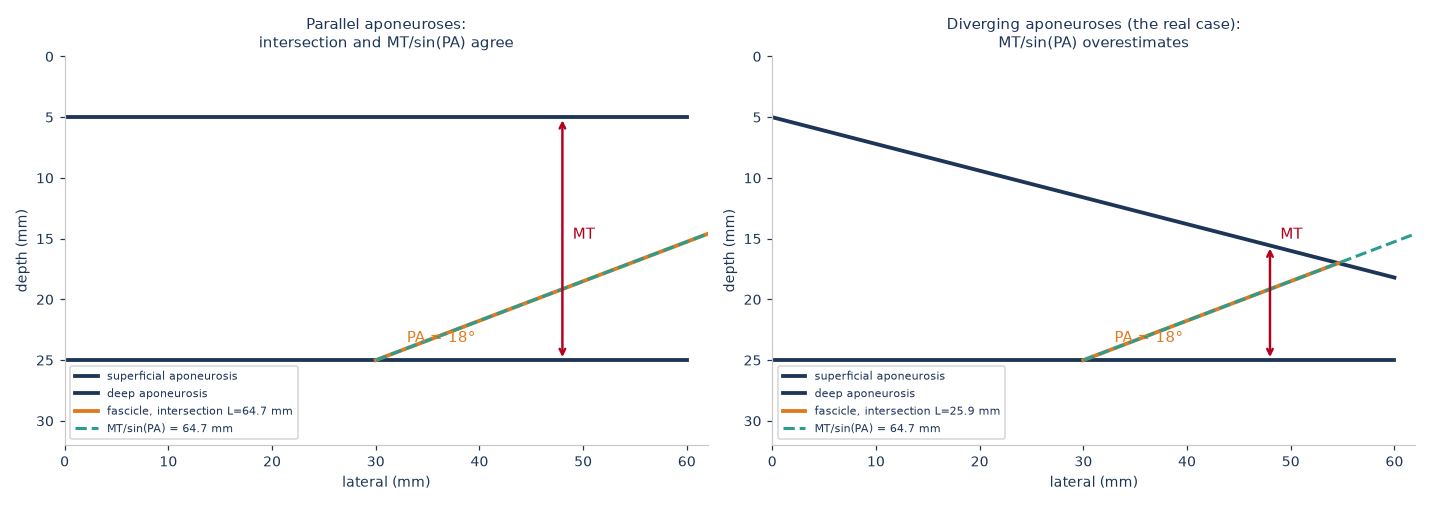
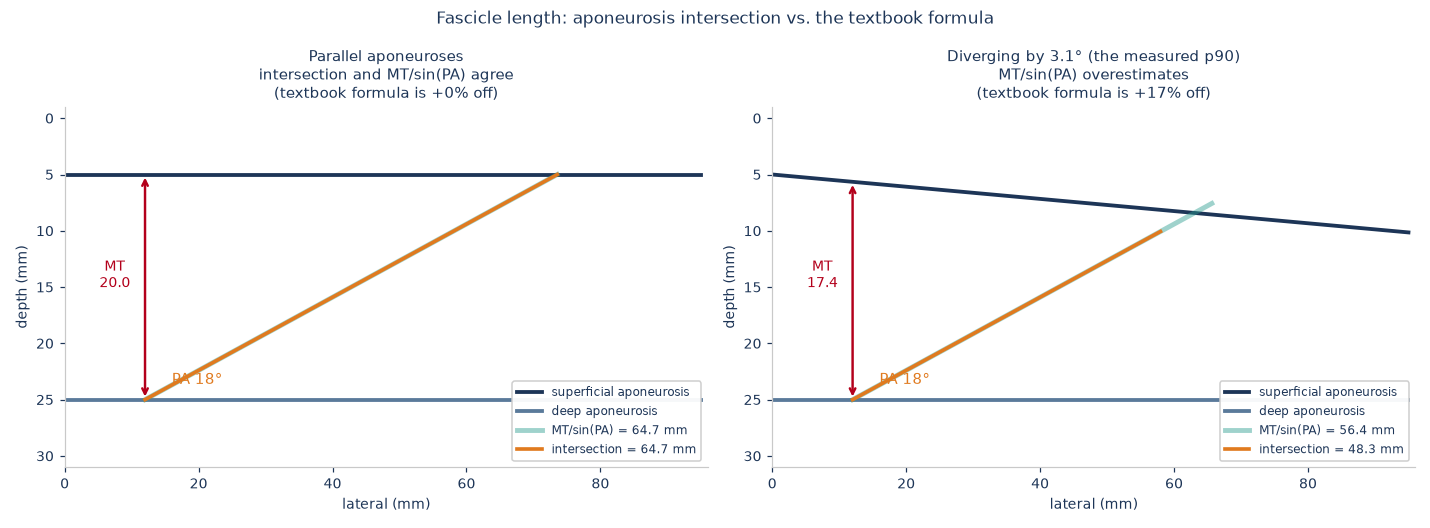
Make the geometry figure faithful to the measured divergence
It was drawn with a 12 deg divergence, which is seven times the measured median
and made the effect look larger than it is. Now drawn at the measured p90
(3.1 deg), and reframed so the textbook line's overshoot past the superficial
aponeurosis is actually visible rather than clipped at the plot edge.

diff --git a/scripts/make_figures.py b/scripts/make_figures.py
@@ -181,46 +181,56 @@ def fig_sequences() -> None:
 
 
 def fig_geometry_diagram() -> None:
-    """The reconstruction, drawn from the actual code paths."""
-    from umud.geometry import Aponeurosis, fascicle_length_mm
+    """The reconstruction, drawn from the actual code path.
 
-    fig, axes = plt.subplots(1, 2, figsize=(13, 4.6))
+    The divergence in the right panel is the p90 measured on the 78
+    ground-truth-annotated frames (3.1 deg), not an exaggeration chosen to make
+    the point look bigger than it is.
+    """
+    from umud.geometry import Aponeurosis, fascicle_length_mm, muscle_thickness_mm
+
+    fig, axes = plt.subplots(1, 2, figsize=(13, 4.8))
+    divergence_deg = 3.1          # measured p90; median is 1.7 deg
 
     for ax, (slope_s, title) in zip(axes, [
-        (0.0, "Parallel aponeuroses:\nintersection and MT/sin(PA) agree"),
-        (0.22, "Diverging aponeuroses (the real case):\nMT/sin(PA) overestimates"),
+        (0.0, "Parallel aponeuroses\nintersection and MT/sin(PA) agree"),
+        (np.tan(np.radians(divergence_deg)),
+         f"Diverging by {divergence_deg:.1f}° (the measured p90)\n"
+         "MT/sin(PA) overestimates"),
     ]):
-        superficial = Aponeurosis(np.array([slope_s, 5.0]), 0.0, 60.0, 100, 0.1)
-        deep = Aponeurosis(np.array([0.0, 25.0]), 0.0, 60.0, 100, 0.1)
-        xs = np.linspace(0, 60, 100)
+        superficial = Aponeurosis(np.array([slope_s, 5.0]), 0.0, 95.0, 100, 0.1)
+        deep = Aponeurosis(np.array([0.0, 25.0]), 0.0, 95.0, 100, 0.1)
+        xs = np.linspace(0, 95, 100)
         ax.plot(xs, superficial.y_at(xs), color=INK, lw=2.5, label="superficial aponeurosis")
-        ax.plot(xs, deep.y_at(xs), color=INK, lw=2.5, label="deep aponeurosis")
+        ax.plot(xs, deep.y_at(xs), color="#5a7a9a", lw=2.5, label="deep aponeurosis")
 
         angle = -18.0
-        fl, mode = fascicle_length_mm(superficial, deep, angle, 20.0)
-        x0 = 30.0
-        y0 = float(deep.y_at(x0))
+        thickness = muscle_thickness_mm(superficial, deep)
+        fl, _ = fascicle_length_mm(superficial, deep, angle, thickness)
+        x0, y0 = 12.0, float(deep.y_at(12.0))
         dx, dy = np.cos(np.radians(angle)), np.sin(np.radians(angle))
         if dy > 0:
             dx, dy = -dx, -dy
-        ax.plot([x0, x0 + fl * dx], [y0, y0 + fl * dy], color=ACCENT, lw=2.5,
-                label=f"fascicle, intersection L={fl:.1f} mm")
 
-        pa = abs(angle - deep.angle_deg)
-        parallel = 20.0 / np.sin(np.radians(pa))
+        pa = abs(angle - deep.angle_deg_at(x0))
+        parallel = thickness / np.sin(np.radians(pa))
         ax.plot([x0, x0 + parallel * dx], [y0, y0 + parallel * dy], color=TEAL,
-                lw=2, ls="--", label=f"MT/sin(PA) = {parallel:.1f} mm")
+                lw=3.2, ls="-", alpha=0.45, label=f"MT/sin(PA) = {parallel:.1f} mm")
+        ax.plot([x0, x0 + fl * dx], [y0, y0 + fl * dy], color=ACCENT, lw=2.4,
+                label=f"intersection = {fl:.1f} mm")
 
-        ax.annotate("", xy=(48, float(superficial.y_at(48))), xytext=(48, float(deep.y_at(48))),
+        ax.annotate("", xy=(x0, float(superficial.y_at(x0))), xytext=(x0, y0),
                     arrowprops=dict(arrowstyle="<->", color="#b3001b", lw=1.6))
-        ax.text(49, 15, "MT", color="#b3001b", fontsize=10)
-        ax.text(x0 + 3, y0 - 1.5, f"PA = {pa:.0f}°", color=ACCENT, fontsize=10)
+        ax.text(x0 - 4.5, 15, f"MT\n{thickness:.1f}", color="#b3001b", fontsize=9, ha="center")
+        ax.text(x0 + 4, y0 - 1.4, f"PA {pa:.0f}°", color=ACCENT, fontsize=10)
 
-        ax.set_xlim(0, 62); ax.set_ylim(32, 0)
+        error = abs(parallel - fl) / fl
+        ax.set_xlim(0, 96); ax.set_ylim(31, -1)
         ax.set_xlabel("lateral (mm)"); ax.set_ylabel("depth (mm)")
-        ax.set_title(title, fontsize=10)
-        ax.legend(fontsize=7.5, loc="lower left")
+        ax.set_title(title + f"\n(textbook formula is {error:+.0%} off)", fontsize=10)
+        ax.legend(fontsize=8, loc="lower right", framealpha=0.95)
 
+    fig.suptitle("Fascicle length: aponeurosis intersection vs. the textbook formula", fontsize=11)
     fig.tight_layout()
     fig.savefig(FIG / "geometry_reconstruction.png", dpi=110)
     plt.close(fig)
